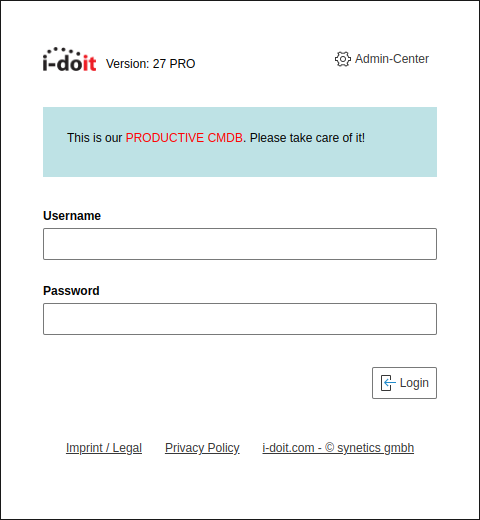
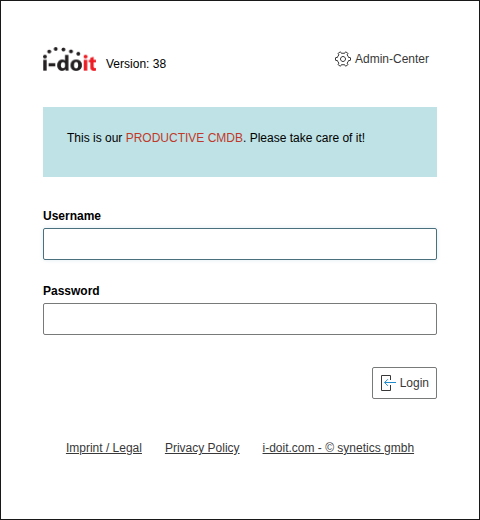
docs(initial-login): use English screenshots for the login page
Point the English initial login page at English captures of the login
screen and the login welcome text, reproduced from i-doit 38, instead of
the German images. Part of #1321.

Changed region(s): [[0.25, 0.2462, 0.5, 0.2769], [0.3125, 0.0923, 0.4062, 0.1538]]

diff --git a/docs/en/basics/initial-login.md b/docs/en/basics/initial-login.md
@@ -31,7 +31,7 @@ All listed users -- with the exception of **systemapi** -- receive their permiss
 
 For the first login, it is best to use the **admin** user, as this user has no functional restrictions.
 
-[![login](../assets/images/de/grundlagen/erstanmeldung/1-erstanmeldung.png)](../assets/images/de/grundlagen/erstanmeldung/1-erstanmeldung.png)
+[![login](../assets/images/en/basics/initial-login/1-il.png)](../assets/images/en/basics/initial-login/1-il.png)
 
 ## Adding additional users and groups
 
@@ -48,4 +48,4 @@ Every user in i-doit is an [object](it-documentation-structure.md) of the type *
 
 You can display a custom text to users directly on the login page. Configure this in the [Admin-Center](../administration/admin-center.md) under **System settings → Login → Welcome text for Login**.
 
-[![login-welcome-text](../assets/images/de/grundlagen/erstanmeldung/2-erstanmeldung.png)](../assets/images/de/grundlagen/erstanmeldung/2-erstanmeldung.png)
+[![login-welcome-text](../assets/images/en/basics/initial-login/2-il.png)](../assets/images/en/basics/initial-login/2-il.png)
